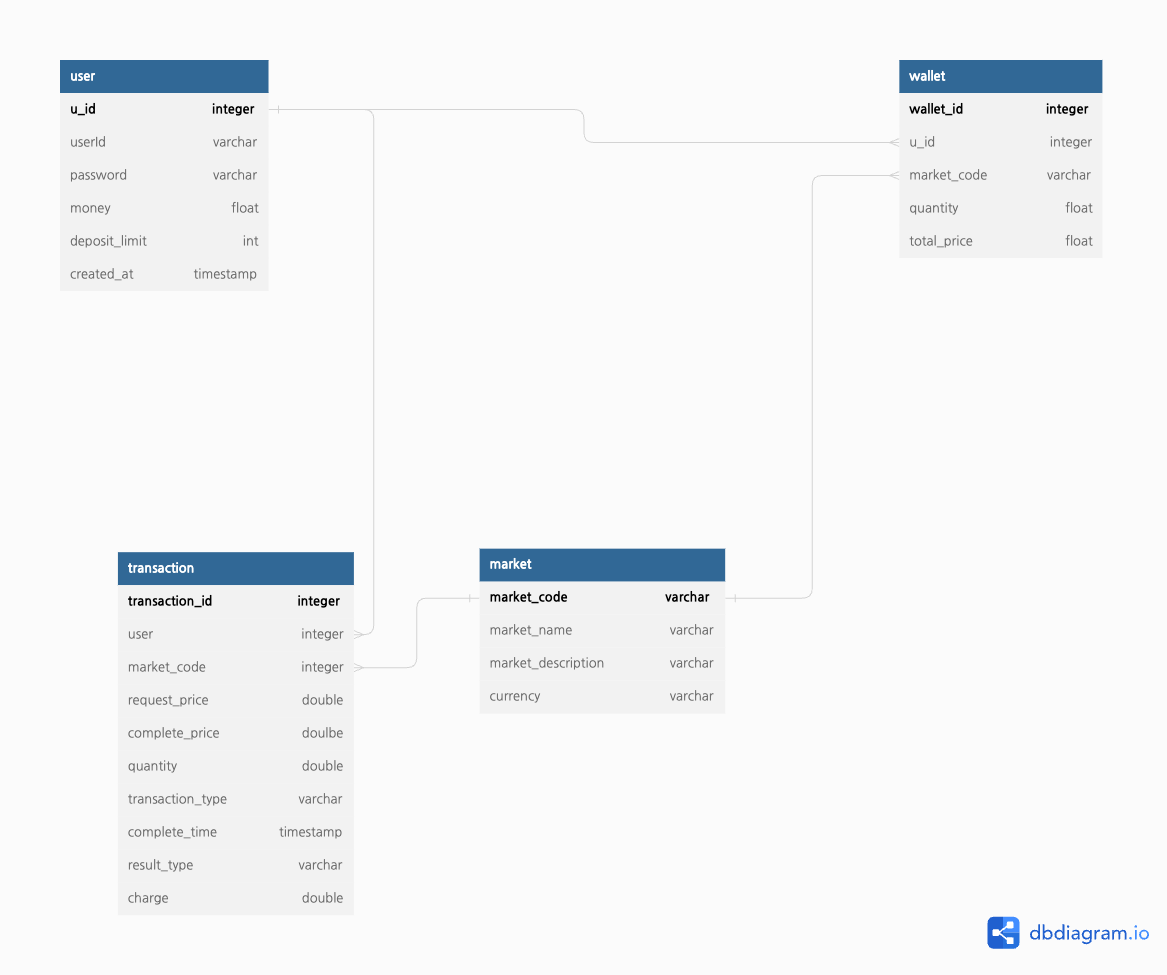
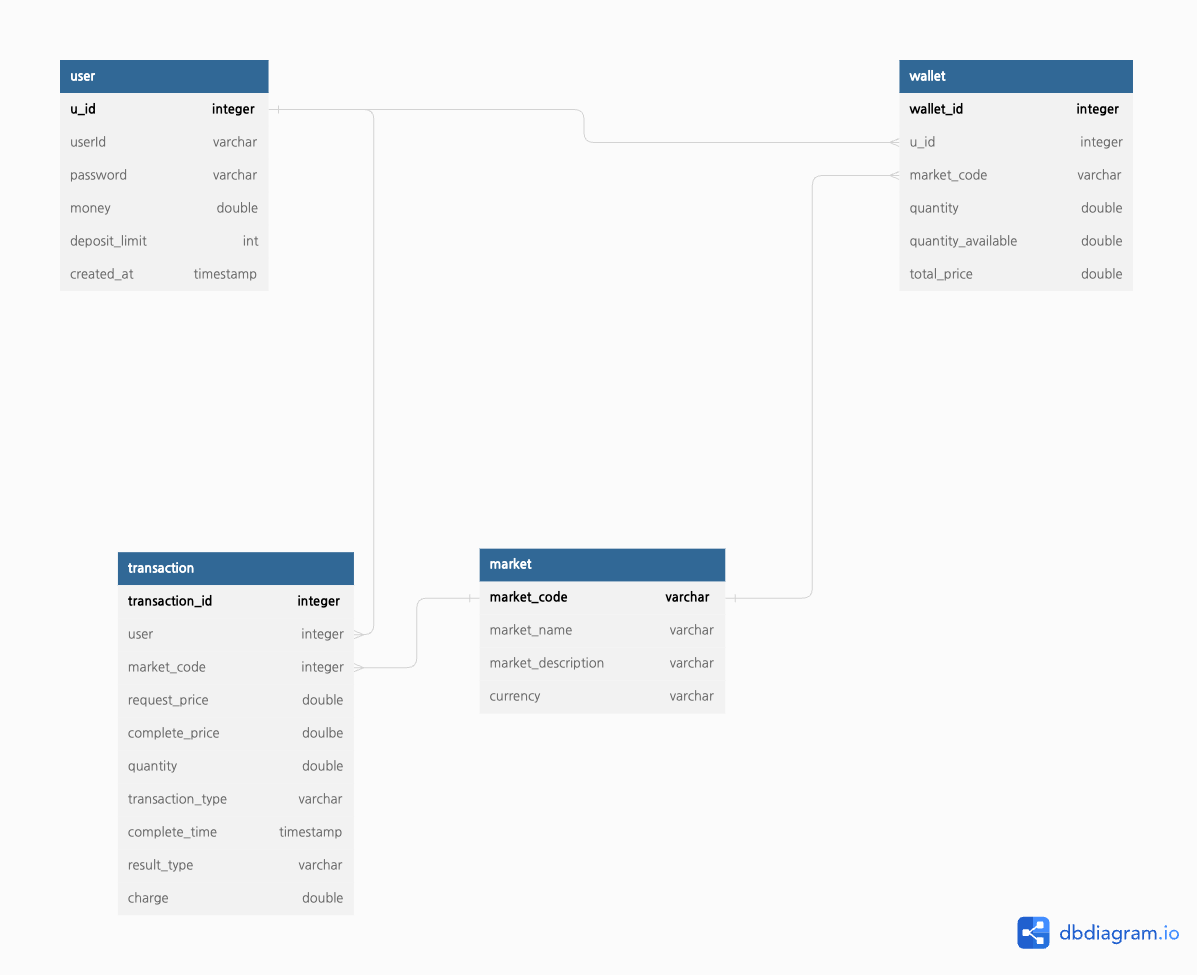
[FEAT] 지정가 거래 요청

diff --git a/src/main/java/com/konkuk/kubit/service/TransactionService.java b/src/main/java/com/konkuk/kubit/service/TransactionService.java
@@ -1,0 +1,101 @@
+package com.konkuk.kubit.service;
+
+import com.konkuk.kubit.domain.Market;
+import com.konkuk.kubit.domain.Transaction;
+import com.konkuk.kubit.domain.User;
+import com.konkuk.kubit.domain.Wallet;
+import com.konkuk.kubit.exception.AppException;
+import com.konkuk.kubit.exception.ErrorCode;
+import com.konkuk.kubit.repository.MarketRepository;
+import com.konkuk.kubit.repository.TransactionRepository;
+import com.konkuk.kubit.repository.UserRepository;
+import com.konkuk.kubit.repository.WalletRepository;
+import com.konkuk.kubit.utils.TransactionUtil;
+import org.springframework.beans.factory.annotation.Autowired;
+import org.springframework.stereotype.Service;
+
+import javax.transaction.Transactional;
+import java.util.Objects;
+
+@Service
+@Transactional
+public class TransactionService {
+    private final TransactionRepository transactionRepository;
+    private final UserRepository userRepository;
+    private final MarketRepository marketRepository;
+    private final WalletRepository walletRepository;
+
+    @Autowired
+    public TransactionService(TransactionRepository transactionRepository, UserRepository userRepository, MarketRepository marketRepository, WalletRepository walletRepository) {
+        this.transactionRepository = transactionRepository;
+        this.userRepository = userRepository;
+        this.marketRepository = marketRepository;
+        this.walletRepository = walletRepository;
+    }
+
+    public Long fixedPriceTransaction(User user, String transactionType, double requestPrice, String marketCode, double quantity) {
+        double totalPrice = requestPrice * quantity;
+        double charge = TransactionUtil.getCharge(requestPrice, quantity);
+        double moneyBalance = user.getMoney() - totalPrice - charge;
+        System.out.println(transactionType);
+        //get market from marketCode
+        Market market = marketRepository.findByMarketCode(marketCode)
+                .orElseThrow(() -> new AppException(ErrorCode.INVALID_MARKETCODE, "마켓 코드가 올바르지 않습니다."));
+        Transaction savedEntity;
+        // 1. BID : 매수
+        if (Objects.equals(transactionType, "BID")) {
+            System.out.println("BIDDID");
+            // check for enough money
+            if (moneyBalance < 0)
+                throw new AppException(ErrorCode.LACK_OF_BALANCE, "거래를 위한 잔액이 부족합니다");
+            // create transaction
+            savedEntity = transactionRequest(user, transactionType, market, requestPrice, quantity, charge, moneyBalance);
+            // reduce money of user(charge?)
+            try {
+                user.setMoney(moneyBalance);
+                userRepository.save(user);
+            } catch (Exception e) {
+                throw new AppException(ErrorCode.REPOSITORY_EXCEPTION, "user repository save error");
+            }
+        }
+        // 2. ASK : 매도
+        else {
+            // check for enough quantity
+            Wallet wallet = walletRepository.findByuIdAndMarketCode(user, market)
+                    .orElseThrow(() -> new AppException(ErrorCode.LACK_OF_QUANTITY, "해당 종목을 소유하고 있지 않아 매도 주문이 불가합니다."));
+            double quantityBalance = wallet.getQuantityAvailable() - quantity;
+            if(quantityBalance <= 0){
+                throw new AppException(ErrorCode.LACK_OF_QUANTITY, "거래 가능한 수량보다 요청 수량이 많아 거래가 불가능합니다.");
+            }
+            // create transaction
+            savedEntity = transactionRequest(user, transactionType, market, requestPrice, quantity, charge, moneyBalance);
+            // reduce wallet's quantity_available
+            try{
+                wallet.setQuantityAvailable(quantityBalance);
+                walletRepository.save(wallet);
+            }catch (Exception e){
+                throw new AppException(ErrorCode.REPOSITORY_EXCEPTION, "wallet repository save error");
+            }
+        }
+        return savedEntity.getTransactionId();
+
+    }
+
+    private Transaction transactionRequest(User user, String transactionType, Market market, double requestPrice, double quantity, double charge, double balance) {
+        Transaction bidTransaction = Transaction.builder()
+                .user(user)
+                .resultType("WAIT")
+                .transactionType(transactionType)
+                .marketCode(market)
+                .requestPrice(requestPrice)
+                .quantity(quantity)
+                .charge(charge)
+                .build();
+        // save transaction
+        try {
+            return transactionRepository.save(bidTransaction);
+        } catch (Exception e) {
+            throw new AppException(ErrorCode.REPOSITORY_EXCEPTION, "transaction repository save error");
+        }
+    }
+}

diff --git a/src/main/java/com/konkuk/kubit/controller/TransactionController.java b/src/main/java/com/konkuk/kubit/controller/TransactionController.java
@@ -1,0 +1,37 @@
+package com.konkuk.kubit.controller;
+
+
+import com.konkuk.kubit.domain.Market;
+import com.konkuk.kubit.domain.User;
+import com.konkuk.kubit.domain.dto.FixedTransactionRequest;
+import com.konkuk.kubit.domain.dto.ResultResponse;
+import com.konkuk.kubit.exception.AppException;
+import com.konkuk.kubit.exception.ErrorCode;
+import com.konkuk.kubit.service.TransactionService;
+import com.konkuk.kubit.utils.GetUser;
+import org.springframework.http.ResponseEntity;
+import org.springframework.security.core.Authentication;
+import org.springframework.web.bind.annotation.*;
+
+import javax.validation.Valid;
+
+@RestController
+@RequestMapping("/api/v1/transaction")
+public class TransactionController {
+    private final TransactionService transactionService;
+
+    public TransactionController(TransactionService transactionService) {
+        this.transactionService = transactionService;
+    }
+
+    @PostMapping("/fixed")
+    public ResponseEntity<?> requestFixedPriceTransaction(@GetUser User user, @RequestBody @Valid final FixedTransactionRequest dto) {
+        Long transactionId = transactionService.fixedPriceTransaction(user, dto.getTransactionType() ,dto.getRequestPrice(), dto.getMarketCode(), dto.getQuantity());
+        ResultResponse data = ResultResponse.builder()
+                .result_code(200)
+                .result_msg(dto.getTransactionType()+" 주문 완료")
+                .detail(transactionId)
+                .build();
+        return ResponseEntity.ok().body(data);
+    }
+}

diff --git a/src/main/java/com/konkuk/kubit/domain/dto/FixedTransactionRequest.java b/src/main/java/com/konkuk/kubit/domain/dto/FixedTransactionRequest.java
@@ -1,0 +1,22 @@
+package com.konkuk.kubit.domain.dto;
+
+import lombok.AllArgsConstructor;
+import lombok.Data;
+
+import javax.validation.constraints.NotEmpty;
+import javax.validation.constraints.Pattern;
+import javax.validation.constraints.Positive;
+
+@Data
+@AllArgsConstructor
+
+public class FixedTransactionRequest {
+    @Pattern(regexp = "^(BID|ASK)$", message = "transaction_type은 BID나 ASK로만 구성되어야 합니다.")
+    private String transactionType;
+    @NotEmpty
+    private String marketCode;
+    @Positive
+    private double requestPrice;
+    @Positive
+    private double quantity;
+}

diff --git a/src/main/java/com/konkuk/kubit/exception/ErrorCode.java b/src/main/java/com/konkuk/kubit/exception/ErrorCode.java
@@ -10,7 +10,12 @@ public enum ErrorCode {
     USERID_DUPLICATED(HttpStatus.CONFLICT, ""),
     USERID_NOTFOUND(HttpStatus.NOT_FOUND, ""),
     INVALID_PASSWORD(HttpStatus.UNAUTHORIZED, ""),
-    INVALID_TOKEN(HttpStatus.UNAUTHORIZED, "");
+    INVALID_TOKEN(HttpStatus.UNAUTHORIZED, ""),
+    INVALID_PARAMETER(HttpStatus.BAD_REQUEST, ""),
+    LACK_OF_BALANCE(HttpStatus.PAYMENT_REQUIRED, ""),
+    LACK_OF_QUANTITY(HttpStatus.BAD_REQUEST, ""),
+    INVALID_MARKETCODE(HttpStatus.BAD_REQUEST, ""),
+    REPOSITORY_EXCEPTION(HttpStatus.CONFLICT, "");
 
     private HttpStatus httpStatus;
     private String message;

diff --git a/src/main/java/com/konkuk/kubit/repository/WalletRepository.java b/src/main/java/com/konkuk/kubit/repository/WalletRepository.java
@@ -1,7 +1,15 @@
 package com.konkuk.kubit.repository;
 
+import com.konkuk.kubit.domain.Market;
+import com.konkuk.kubit.domain.User;
 import com.konkuk.kubit.domain.Wallet;
 import org.springframework.data.jpa.repository.JpaRepository;
+import org.springframework.data.jpa.repository.Query;
+
+import java.util.Optional;
 
 public interface WalletRepository extends JpaRepository<Wallet, Long> {
+    Optional<Wallet> findByMarketCode(Market marketCode);
+
+    Optional<Wallet> findByuIdAndMarketCode(User user, Market marketCode);
 }

diff --git a/src/main/java/com/konkuk/kubit/domain/Wallet.java b/src/main/java/com/konkuk/kubit/domain/Wallet.java
@@ -27,7 +27,11 @@ public class Wallet {
     @JoinColumn(name="marketCode")
     private Market marketCode;
 
+    //총 수량
     private double quantity;
+
+    // 주문 가능한 수량 (매도 주문에서, quantity_available을 보고, 거래 완료시점에서 update 하도록 함)
+    private double quantityAvailable;
 
     private double totalPrice;
 }

diff --git a/src/main/java/com/konkuk/kubit/repository/MarketRepository.java b/src/main/java/com/konkuk/kubit/repository/MarketRepository.java
@@ -1,0 +1,10 @@
+package com.konkuk.kubit.repository;
+
+import com.konkuk.kubit.domain.Market;
+import org.springframework.data.jpa.repository.JpaRepository;
+
+import java.util.Optional;
+
+public interface MarketRepository extends JpaRepository<Market, String> {
+    Optional<Market> findByMarketCode(String marketCode);
+}

diff --git a/src/main/java/com/konkuk/kubit/utils/TransactionUtil.java b/src/main/java/com/konkuk/kubit/utils/TransactionUtil.java
@@ -1,0 +1,8 @@
+package com.konkuk.kubit.utils;
+
+public class TransactionUtil {
+    public static final double CHARGE = 0.05;
+    public static double getCharge(double requestPrice, double quantity){
+        return requestPrice * quantity * CHARGE;
+    }
+}

diff --git a/src/main/java/com/konkuk/kubit/repository/TransactionRepository.java b/src/main/java/com/konkuk/kubit/repository/TransactionRepository.java
@@ -1,0 +1,7 @@
+package com.konkuk.kubit.repository;
+
+import com.konkuk.kubit.domain.Transaction;
+import org.springframework.data.jpa.repository.JpaRepository;
+
+public interface TransactionRepository extends JpaRepository<Transaction, Long> {
+}

diff --git a/README.md b/README.md
@@ -4,6 +4,8 @@
 
 # Schema
 
+https://dbdiagram.io/d/644b7741dca9fb07c43105f5를 참고한다
+
 ![schema](schema.png)
 
 # API
@@ -113,11 +115,7 @@
 
 - url
 
-  `{root}/api/v1/transaction/fixed/{bid/ask}`
-
-  - bid : 매수
-
-  - ask : 매도
+  `{root}/api/v1/transaction/fixed`
 
 - method
 
@@ -125,13 +123,48 @@
 
 - request body
 
-  | Key           | Type(?) | Description                  |
-  | ------------- | ------- | ---------------------------- |
-  | market_code   | String  | 거래할 마켓                  |
-  | request_price | Double  | 요청 가격(1코인당 가격 의미) |
-  | quantity      | Double  | 요청 거래 수량               |
+  | Key             | Type(?) | Description                       |
+  | --------------- | ------- | --------------------------------- |
+  | transactionType | String  | BID(매수) / ASK(매도)             |
+  | marketCode      | String  | 거래할 마켓                       |
+  | requestPrice    | Double  | 요청 가격 (**1코인당 가격 의미**) |
+  | quantity        | Double  | 요청 거래 수량                    |
 
 - response
+
+  - 정상 케이스
+
+  ```json
+  {
+      "result_code": 200,
+      "result_msg": "ASK 주문 완료",
+      "detail": 1	//transactionId
+  }
+  ```
+
+  - 오류 케이스
+
+  ```json
+  {
+      "result_code": 400,
+      "result_msg": "거래 가능한 수량보다 요청 수량이 많아 거래가 불가능합니다.",
+      "detail": null
+  }
+  
+  {
+      "result_code": 400,
+      "result_msg": "마켓 코드가 올바르지 않습니다.",
+      "detail": null
+  }
+  
+  {
+      "result_code": 402,
+      "result_msg": "거래를 위한 잔액이 부족합니다",
+      "detail": null
+  }
+  ```
+
+  
 
 
 
@@ -139,10 +172,7 @@
 
 - url
 
-  `{root}/api/v1/transaction/market/{bid/ask}`
-
-  - bid : 매수
-  - ask : 매도
+  `{root}/api/v1/transaction/market`
 
 - method
 
@@ -150,10 +180,11 @@
 
 - request body
 
-  | Key         | Type(?) | Description    |
-  | ----------- | ------- | -------------- |
-  | market_code | String  | 거래할 마켓    |
-  | quantity    | Double  | 요청 거래 수량 |
+  | Key             | Type(?) | Description           |
+  | --------------- | ------- | --------------------- |
+  | transactionType | String  | BID(매수) / ASK(매도) |
+  | marketCode      | String  | 거래할 마켓           |
+  | quantity        | Double  | 요청 거래 수량        |
 
 - response
 
@@ -259,4 +290,10 @@
   |      |         |             |
 
 입출금 제한도 처리
+
+
+
+a가 이메일 요청을 해 -> 12345 생성 -> 이메일 전송
+
+a가 검증 요청을 해 -> a string을 보내주겠지? -> 
 
